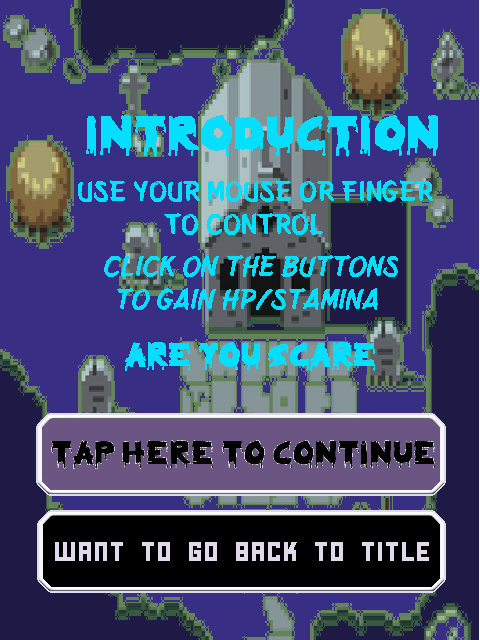
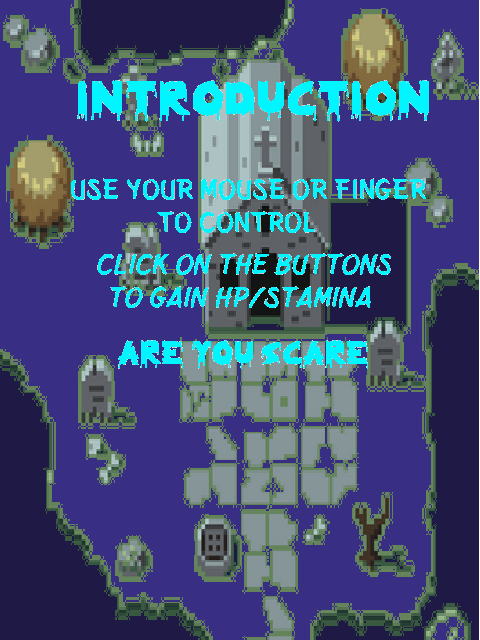
fixed menus

diff --git a/src/scenes/Instructions.js b/src/scenes/Instructions.js
@@ -8,7 +8,6 @@ class Instructions extends Phaser.Scene {
         this.background = this.add.image(0, 0, 'instructions').setOrigin(0);
         this.nextButton = this.add.sprite(game.config.width/2, 440, 'instructionNext').setOrigin(0.5);
         this.backButton = this.add.sprite(game.config.width/2, 540, 'instructionBack').setOrigin(0.5);
-        //this.background.setScale(0.5);
 
         this.nextButton.setInteractive();
         this.backButton.setInteractive();

diff --git a/src/scenes/Menu.js b/src/scenes/Menu.js
@@ -7,8 +7,6 @@ class Menu extends Phaser.Scene {
         gamePointer = this.input.activePointer;
         this.title = this.add.image(0, 0, 'title').setOrigin(0);
         this.nextButton = this.add.sprite(game.config.width/2, 540, 'titleStart').setOrigin(0.5);
-        this.title.setScale(0.5);
-
         this.nextButton.setInteractive();
 
         this.nextButton.on('pointerdown', () => {
